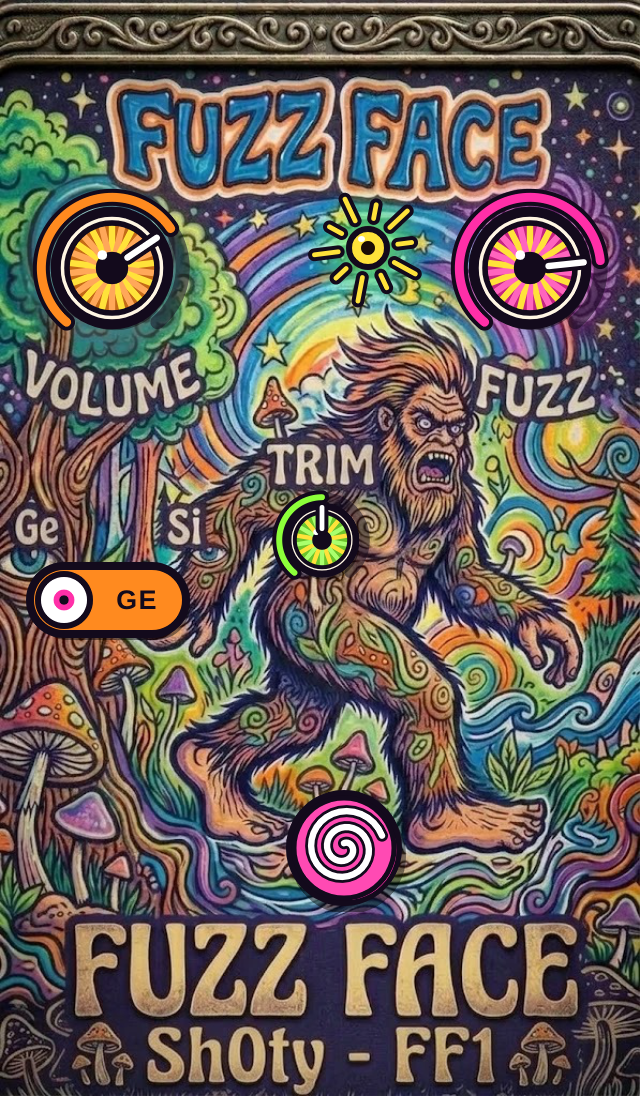
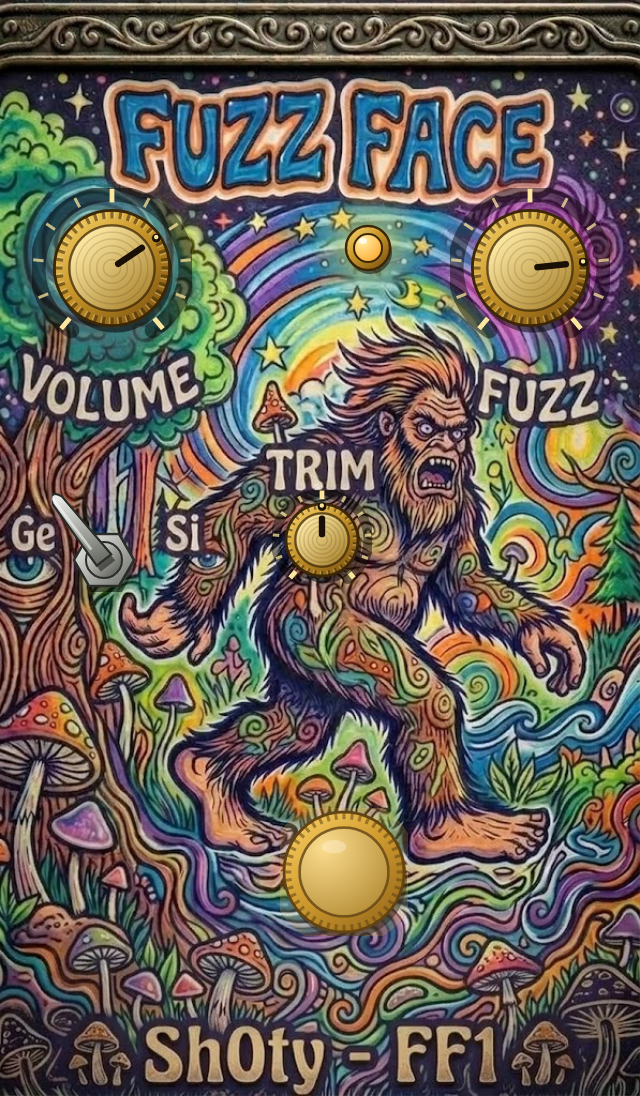
FF-1: brass dials, stomp and status jewel; nickel toggle lever for Ge/Si between the painted labels; updated poster art
Claude-Session: https://claude.ai/code/session_012hLuVF1MDrdb24tewskp13

diff --git a/Source/FfEditor.cpp b/Source/FfEditor.cpp
@@ -18,146 +18,136 @@ juce::Colour rainbow (int i)
     return c[(size_t) (((i % 7) + 7) % 7)];
 }
 
-juce::Font marker (float size, bool italic = true, float kern = 0.03f)
-{
-    juce::Font f (juce::FontOptions (size, italic ? (juce::Font::bold | juce::Font::italic) : juce::Font::bold));
-    f.setExtraKerningFactor (kern);
-    return f;
-}
-
-void stroke (juce::Graphics& g, const juce::Path& p, juce::Colour c, float w)
-{
-    g.setColour (ink); g.strokePath (p, juce::PathStrokeType (w + 4.f, juce::PathStrokeType::curved, juce::PathStrokeType::rounded));
-    g.setColour (c);   g.strokePath (p, juce::PathStrokeType (w, juce::PathStrokeType::curved, juce::PathStrokeType::rounded));
-}
-
-juce::Path spiral (juce::Point<float> c, float r, float turns)
-{
-    juce::Path p;
-    const int n = 70;
-    for (int i = 0; i <= n; ++i)
-    {
-        const float t = (float) i / (float) n, a = t * turns * juce::MathConstants<float>::twoPi, rr = r * (0.12f + 0.88f * t);
-        const auto pt = c.getPointOnCircumference (rr, a);
-        if (i == 0) p.startNewSubPath (pt); else p.lineTo (pt);
-    }
-    return p;
-}
-
-// smooth open curve through points (Catmull-Rom -> cubic Beziers)
-juce::Path smoothOpen (const std::vector<juce::Point<float>>& p)
-{
-    juce::Path path;
-    const int n = (int) p.size();
-    if (n < 3) return path;
-    auto at = [&] (int i) { return p[(size_t) juce::jlimit (0, n - 1, i)]; };
-    path.startNewSubPath (p[0]);
-    for (int i = 0; i < n - 1; ++i)
-    {
-        const auto p0 = at (i - 1), p1 = at (i), p2 = at (i + 1), p3 = at (i + 2);
-        path.cubicTo (p1 + (p2 - p0) / 6.f, p2 - (p3 - p1) / 6.f, p2);
-    }
-    return path;
-}
-
-// marker lettering: coloured fill, thick ink outline, optional offset shadow
-void lettering (juce::Graphics& g, const juce::String& text, juce::Point<float> at, float size, juce::Colour fill,
-                bool centred, juce::Colour shadow = juce::Colours::transparentBlack, bool italic = true)
-{
-    juce::GlyphArrangement ga;
-    ga.addLineOfText (marker (size, italic, 0.05f), text, 0.f, 0.f);
-    const auto bb = ga.getBoundingBox (0, -1, true);
-    ga.removeRangeOfGlyphs (0, -1);
-    ga.addLineOfText (marker (size, italic, 0.05f), text, centred ? at.x - bb.getWidth() * 0.5f : at.x, at.y);
-    juce::Path p; ga.createPath (p);
-    if (! shadow.isTransparent()) { g.setColour (shadow); g.fillPath (p, juce::AffineTransform::translation (3.5f, 3.5f)); }
-    g.setColour (ink); g.strokePath (p, juce::PathStrokeType (size * 0.2f, juce::PathStrokeType::curved, juce::PathStrokeType::rounded));
-    g.setColour (fill); g.fillPath (p);
-}
 } // namespace sas
 
 //==============================================================================
-// Knobs are eyeballs: white of the eye, a radial-striped iris (like the drawing's own eyes), a pupil, and a pointer.
+// Hardware is brass: knurled brass dials, a domed brass stomp button and a nickel toggle lever for Ge / Si.
+namespace brass
+{
+const juce::Colour hi { 0xfffbe6a0 }, light { 0xffe8bf55 }, mid { 0xffc8962a }, dark { 0xff7d5410 }, deep { 0xff3b2606 };
+
+juce::ColourGradient body (juce::Point<float> c, float r)     // lit from the upper left
+{
+    juce::ColourGradient gr (light, c.x - r * 0.55f, c.y - r * 0.7f, dark, c.x + r * 0.8f, c.y + r * 0.9f, false);
+    gr.addColour (0.35, mid);
+    return gr;
+}
+} // namespace brass
+
 void MarkerLookAndFeel::drawRotarySlider (juce::Graphics& g, int x, int y, int w, int h, float pos,
                                           float startAngle, float endAngle, juce::Slider& s)
 {
-    using namespace sas;
-    const auto b = juce::Rectangle<float> ((float) x, (float) y, (float) w, (float) h).reduced (2.f);
+    using namespace brass;
+    const auto b = juce::Rectangle<float> ((float) x, (float) y, (float) w, (float) h);
     const float r = juce::jmin (b.getWidth(), b.getHeight()) * 0.5f;
     const auto c = b.getCentre();
     const float ang = startAngle + pos * (endAngle - startAngle);
     const bool small = s.getProperties().getWithDefault ("small", false);
-    const juce::Colour accent ((juce::uint32) (int) s.getProperties().getWithDefault ("accent", (int) orange.getARGB()));
 
-    // value arc: fat marker line around the eye
-    const float ar = r * 0.93f;
-    juce::Path track, value;
-    track.addCentredArc (c.x, c.y, ar, ar, 0.f, startAngle, endAngle, true);
-    value.addCentredArc (c.x, c.y, ar, ar, 0.f, startAngle, ang, true);
-    g.setColour (ink.withAlpha (0.5f)); g.strokePath (track, juce::PathStrokeType (small ? 5.f : 7.f, juce::PathStrokeType::curved, juce::PathStrokeType::rounded));
-    if (pos > 0.002f) stroke (g, value, accent, small ? 3.f : 4.5f);
-
-    // eyeball
-    const float kr = r * 0.74f;
-    g.setColour (juce::Colours::black.withAlpha (0.4f)); g.fillEllipse (c.x - kr + 1.5f, c.y - kr + 3.f, kr * 2, kr * 2);
-    g.setColour (juce::Colour (0xfffff6e4)); g.fillEllipse (c.x - kr, c.y - kr, kr * 2, kr * 2);
-    const float ir = kr * 0.8f;
-    g.setColour (accent.darker (0.3f)); g.fillEllipse (c.x - ir, c.y - ir, ir * 2, ir * 2);
-    const int spokes = small ? 18 : 26;
-    for (int i = 0; i < spokes; ++i)         // radial iris strokes, alternating colours
+    // scale ticks on a dark backing so they read over the artwork
+    g.setColour (juce::Colours::black.withAlpha (0.45f));
+    juce::Path ring; ring.addCentredArc (c.x, c.y, r * 0.93f, r * 0.93f, 0.f, startAngle - 0.12f, endAngle + 0.12f, true);
+    g.strokePath (ring, juce::PathStrokeType (r * 0.2f, juce::PathStrokeType::curved, juce::PathStrokeType::rounded));
+    for (int i = 0; i <= 10; ++i)
     {
-        const float a = juce::MathConstants<float>::twoPi * (float) i / (float) spokes;
-        g.setColour (i % 2 ? accent.brighter (0.35f) : yellow);
-        g.drawLine ({ c.getPointOnCircumference (ir * 0.34f, a), c.getPointOnCircumference (ir * 0.96f, a) }, small ? 2.2f : 3.2f);
+        const float a = startAngle + (float) i / 10.f * (endAngle - startAngle);
+        const bool major = i % 5 == 0;
+        g.setColour (hi.withAlpha (major ? 1.f : 0.75f));
+        g.drawLine ({ c.getPointOnCircumference (r * (major ? 0.82f : 0.86f), a), c.getPointOnCircumference (r * 0.99f, a) }, major ? 2.4f : 1.5f);
     }
-    g.setColour (ink); g.drawEllipse (c.x - ir, c.y - ir, ir * 2, ir * 2, small ? 2.f : 2.8f);
-    const float pr = ir * 0.36f;
-    g.setColour (ink); g.fillEllipse (c.x - pr, c.y - pr, pr * 2, pr * 2);
-    g.setColour (juce::Colours::white); g.fillEllipse (c.x - pr * 0.9f, c.y - pr * 1.1f, pr * 0.6f, pr * 0.6f);
-    g.setColour (ink); g.drawEllipse (c.x - kr, c.y - kr, kr * 2, kr * 2, small ? 3.5f : 5.f);
-    // pointer: a thick marker line from the pupil out across the iris
-    juce::Path ptr; ptr.startNewSubPath (c.getPointOnCircumference (pr * 1.15f, ang)); ptr.lineTo (c.getPointOnCircumference (kr * 0.96f, ang));
-    stroke (g, ptr, juce::Colours::white, small ? 2.4f : 3.2f);
+
+    const float kr = r * 0.72f;
+    g.setColour (juce::Colours::black.withAlpha (0.5f)); g.fillEllipse (c.x - kr + 1.5f, c.y - kr + 3.5f, kr * 2, kr * 2);
+    // knurled skirt
+    g.setGradientFill (body (c, kr)); g.fillEllipse (c.x - kr, c.y - kr, kr * 2, kr * 2);
+    const int ridges = small ? 30 : 40;
+    for (int i = 0; i < ridges; ++i)
+    {
+        const float a = juce::MathConstants<float>::twoPi * (float) i / (float) ridges;
+        g.setColour (deep.withAlpha (0.55f));
+        g.drawLine ({ c.getPointOnCircumference (kr * 0.86f, a), c.getPointOnCircumference (kr * 0.995f, a) }, small ? 1.2f : 1.6f);
+        g.setColour (hi.withAlpha (0.35f));
+        g.drawLine ({ c.getPointOnCircumference (kr * 0.86f, a + 0.045f), c.getPointOnCircumference (kr * 0.995f, a + 0.045f) }, 0.8f);
+    }
+    g.setColour (deep); g.drawEllipse (c.x - kr, c.y - kr, kr * 2, kr * 2, 1.4f);
+    // polished cap with fine concentric turning marks
+    const float cr = kr * 0.74f;
+    g.setGradientFill (juce::ColourGradient (hi, c.x - cr * 0.6f, c.y - cr * 0.7f, mid.darker (0.25f), c.x + cr, c.y + cr, false));
+    g.fillEllipse (c.x - cr, c.y - cr, cr * 2, cr * 2);
+    g.setColour (deep.withAlpha (0.16f));
+    for (float t = 0.2f; t < 1.f; t += 0.16f) g.drawEllipse (c.x - cr * t, c.y - cr * t, cr * t * 2, cr * t * 2, 0.7f);
+    g.setColour (deep.withAlpha (0.7f)); g.drawEllipse (c.x - cr, c.y - cr, cr * 2, cr * 2, 1.2f);
+    // engraved pointer line, filled with black enamel, and a lit dot on the skirt
+    juce::Path ptr; ptr.addRoundedRectangle (-1.6f, -cr * 0.92f, 3.2f, cr * 0.82f, 1.4f);
+    g.setColour (juce::Colour (0xff1a1006)); g.fillPath (ptr, juce::AffineTransform::rotation (ang).translated (c.x, c.y));
+    const auto tip = c.getPointOnCircumference (kr * 0.93f, ang);
+    g.setColour (juce::Colour (0xff1a1006)); g.fillEllipse (tip.x - 2.2f, tip.y - 2.2f, 4.4f, 4.4f);
+    g.setColour (hi); g.fillEllipse (tip.x - 1.2f, tip.y - 1.6f, 2.2f, 2.2f);
 }
 
-// footswitch: a hypnotic spiral, bright when on
+// footswitch: a domed brass button with a knurled collar; a warm glow when the pedal is on
 void MarkerLookAndFeel::drawButtonBackground (juce::Graphics& g, juce::Button& b, const juce::Colour&, bool over, bool)
 {
-    using namespace sas;
-    const auto r = b.getLocalBounds().toFloat().reduced (3.f);
+    using namespace brass;
+    const auto r = b.getLocalBounds().toFloat().reduced (2.f);
     const float d = juce::jmin (r.getWidth(), r.getHeight());
     const auto rc = r.withSizeKeepingCentre (d, d);
+    const auto c = rc.getCentre(); const float R = d * 0.5f;
     const bool on = b.getToggleState();
-    g.setColour (juce::Colours::black.withAlpha (0.45f)); g.fillEllipse (rc.translated (2.f, 4.f));
-    g.setColour (ink); g.fillEllipse (rc);
-    const auto face = rc.reduced (4.f);
-    g.setColour (on ? magenta : juce::Colour (0xff5a2f86)); g.fillEllipse (face.translated (1.2f, 1.f));
-    g.setColour (on ? magenta.brighter (0.15f) : juce::Colour (0xff6a3a98)); g.fillEllipse (face);
-    g.setColour (over ? yellow : ink); g.drawEllipse (face, over ? 3.f : 2.5f);
-    const auto sp = spiral (face.getCentre(), face.getWidth() * 0.4f, 2.2f);
-    g.setColour (ink); g.strokePath (sp, juce::PathStrokeType (on ? 6.f : 5.f, juce::PathStrokeType::curved, juce::PathStrokeType::rounded));
-    g.setColour (on ? juce::Colours::white : juce::Colour (0xff9a6ac8)); g.strokePath (sp, juce::PathStrokeType (on ? 3.2f : 2.4f, juce::PathStrokeType::curved, juce::PathStrokeType::rounded));
+    const bool down = b.isDown();
+    g.setColour (juce::Colours::black.withAlpha (0.5f)); g.fillEllipse (rc.translated (1.5f, 3.5f));
+    g.setGradientFill (body (c, R)); g.fillEllipse (rc);                                  // collar
+    for (int i = 0; i < 44; ++i)
+    {
+        const float a = juce::MathConstants<float>::twoPi * (float) i / 44.f;
+        g.setColour (deep.withAlpha (0.55f)); g.drawLine ({ c.getPointOnCircumference (R * 0.88f, a), c.getPointOnCircumference (R * 0.995f, a) }, 1.5f);
+    }
+    g.setColour (deep); g.drawEllipse (rc, 1.4f);
+    const float dr = R * 0.74f * (down ? 0.97f : 1.f);                                    // dome
+    g.setGradientFill (juce::ColourGradient (hi, c.x - dr * 0.45f, c.y - dr * 0.55f, mid.darker (0.35f), c.x + dr, c.y + dr, true));
+    g.fillEllipse (c.x - dr, c.y - dr, dr * 2, dr * 2);
+    g.setColour (deep.withAlpha (0.8f)); g.drawEllipse (c.x - dr, c.y - dr, dr * 2, dr * 2, 1.3f);
+    g.setColour (juce::Colours::white.withAlpha (over ? 0.55f : 0.4f)); g.fillEllipse (c.x - dr * 0.5f, c.y - dr * 0.72f, dr * 0.55f, dr * 0.3f);   // highlight
+    if (on) { g.setColour (juce::Colour (0xffffc04a).withAlpha (0.2f)); g.fillEllipse (c.x - R * 1.25f, c.y - R * 1.25f, R * 2.5f, R * 2.5f); }
 }
 
-// the Ge / Si switch, sitting in his mouth: a chunky pill with an eyeball thumb
+// the Ge / Si switch: a nickel toggle lever, thrown left for germanium and right for silicon
 void MarkerLookAndFeel::drawToggleButton (juce::Graphics& g, juce::ToggleButton& b, bool over, bool)
 {
-    using namespace sas;
-    const auto r = b.getLocalBounds().toFloat().reduced (3.f);
+    const auto r = b.getLocalBounds().toFloat();
     const bool si = b.getToggleState();
-    g.setColour (juce::Colours::black.withAlpha (0.45f)); g.fillRoundedRectangle (r.translated (2.f, 3.f), r.getHeight() * 0.5f);
-    g.setColour (si ? cyan.darker (0.35f) : orange.darker (0.25f)); g.fillRoundedRectangle (r.translated (1.2f, 1.f), r.getHeight() * 0.5f);
-    g.setColour (si ? cyan : orange); g.fillRoundedRectangle (r, r.getHeight() * 0.5f);
-    g.setColour (over ? yellow : ink); g.drawRoundedRectangle (r, r.getHeight() * 0.5f, over ? 4.5f : 4.f);
-    g.setColour (ink); g.setFont (marker (15.f, false, 0.05f));
-    if (si) g.drawText ("SI", r.withTrimmedRight (r.getWidth() * 0.45f).translated (3.f, 0.f), juce::Justification::centred);   // the mode's name sits on the side the thumb left free
-    else    g.drawText ("GE", r.withTrimmedLeft (r.getWidth() * 0.45f).translated (-3.f, 0.f), juce::Justification::centred);
-    const float td = r.getHeight() - 8.f;
-    const auto thumb = juce::Rectangle<float> (si ? r.getRight() - td - 4.f : r.getX() + 4.f, r.getY() + 4.f, td, td);
-    g.setColour (juce::Colours::white); g.fillEllipse (thumb);
-    g.setColour (ink); g.drawEllipse (thumb, 3.f);
-    g.setColour (si ? blue : magenta); g.fillEllipse (thumb.getCentreX() - td * 0.2f, thumb.getCentreY() - td * 0.2f, td * 0.4f, td * 0.4f);
-    g.setColour (ink); g.fillEllipse (thumb.getCentreX() - td * 0.09f, thumb.getCentreY() - td * 0.09f, td * 0.18f, td * 0.18f);
+    const juce::Point<float> pivot (r.getCentreX(), r.getBottom() - 16.f);
+
+    // hex nut and bushing
+    juce::Path nut;
+    for (int i = 0; i < 6; ++i)
+    {
+        const auto p = pivot.getPointOnCircumference (15.f, juce::MathConstants<float>::pi / 6.f + (float) i * juce::MathConstants<float>::pi / 3.f);
+        if (i == 0) nut.startNewSubPath (p); else nut.lineTo (p);
+    }
+    nut.closeSubPath();
+    g.setColour (juce::Colours::black.withAlpha (0.5f)); g.fillPath (nut, juce::AffineTransform::translation (1.5f, 3.f));
+    g.setGradientFill (juce::ColourGradient (juce::Colour (0xfff2f2ee), pivot.x - 14.f, pivot.y - 14.f, juce::Colour (0xff6b6e68), pivot.x + 14.f, pivot.y + 14.f, false));
+    g.fillPath (nut);
+    g.setColour (juce::Colour (0xff2a2c28)); g.strokePath (nut, juce::PathStrokeType (1.2f));
+    g.setGradientFill (juce::ColourGradient (juce::Colour (0xffe8e8e2), pivot.x - 8.f, pivot.y - 8.f, juce::Colour (0xff53564f), pivot.x + 8.f, pivot.y + 8.f, false));
+    g.fillEllipse (pivot.x - 9.f, pivot.y - 9.f, 18.f, 18.f);
+    g.setColour (juce::Colour (0xff2a2c28)); g.drawEllipse (pivot.x - 9.f, pivot.y - 9.f, 18.f, 18.f, 1.f);
+
+    // the bat: a tapered lever with a rounded tip, thrown to one side
+    const float ang = juce::degreesToRadians (si ? 38.f : -38.f), len = r.getHeight() - 22.f;
+    juce::Path bat;
+    bat.startNewSubPath (-4.6f, 0.f); bat.lineTo (-3.0f, -len + 4.f);
+    bat.quadraticTo (0.f, -len - 3.f, 3.0f, -len + 4.f); bat.lineTo (4.6f, 0.f); bat.closeSubPath();
+    const auto xf = juce::AffineTransform::rotation (ang).translated (pivot.x, pivot.y);
+    g.setColour (juce::Colours::black.withAlpha (0.45f)); g.fillPath (bat, xf.translated (2.f, 3.f));
+    const auto tip = pivot + juce::Point<float> (std::sin (ang), -std::cos (ang)) * len;
+    g.setGradientFill (juce::ColourGradient (juce::Colour (0xfffafaf6), pivot.x - 6.f, pivot.y - len, juce::Colour (0xff60645c), pivot.x + 8.f, pivot.y, false));
+    g.fillPath (bat, xf);
+    g.setColour (juce::Colour (0xff2a2c28)); g.strokePath (bat, juce::PathStrokeType (1.1f), xf);
+    g.setColour (juce::Colours::white.withAlpha (over ? 0.8f : 0.55f));
+    g.drawLine (juce::Line<float> (pivot + juce::Point<float> (std::sin (ang), -std::cos (ang)) * 8.f - juce::Point<float> (std::cos (ang), std::sin (ang)) * 1.8f,
+                                   tip - juce::Point<float> (std::cos (ang), std::sin (ang)) * 1.4f), 1.4f);
 }
 
 namespace
@@ -218,9 +208,9 @@ void Sh0tyFF1Editor::resized()
     // chest, Ge / Si above the switch on the tree, the stomp button between his feet
     volume.slider.setBounds ({ kVolume.x - 40, kVolume.y - 40, 80, 80 });
     fuzz.slider.setBounds   ({ kFuzz.x - 40, kFuzz.y - 40, 80, 80 });
-    silicon.setBounds       ({ 12, 280, 84, 40 });
+    silicon.setBounds       ({ 52 - 26, 268 - 36, 52, 64 });   // between the painted Ge and Si labels
     trim.slider.setBounds   ({ 161 - 25, 270 - 25, 50, 50 });
-    footswitch.setBounds    ({ 172 - 32, 424 - 32, 64, 64 });
+    footswitch.setBounds    ({ 172 - 32, 436 - 32, 64, 64 });
 }
 
 //------------------------------------------------------------------------------ paint
@@ -239,22 +229,20 @@ void Sh0tyFF1Editor::paint (juce::Graphics& g)
         g.fillEllipse (eye.first.x - r, eye.first.y - r, r * 2, r * 2);
     }
 
-    // status light: a painted star in the rainbow, lit when the pedal is on
+    // status light: a brass bezel with a jewel, lit when the pedal is on
     const bool lit = footswitch.getToggleState();
     const juce::Point<float> eye (kLight.toFloat());
     if (lit)
     {
-        g.setGradientFill (juce::ColourGradient (lime.withAlpha (0.8f), eye.x, eye.y, lime.withAlpha (0.f), eye.x + 30.f, eye.y, true));
+        g.setGradientFill (juce::ColourGradient (juce::Colour (0xffffd24a).withAlpha (0.75f), eye.x, eye.y, juce::Colour (0xffffd24a).withAlpha (0.f), eye.x + 30.f, eye.y, true));
         g.fillEllipse (eye.x - 30.f, eye.y - 30.f, 60.f, 60.f);
-        for (int i = 0; i < 10; ++i)       // little rays
-        {
-            const float a = juce::MathConstants<float>::twoPi * (float) i / 10.f + phase * 0.2f;
-            juce::Path ray; ray.startNewSubPath (eye.getPointOnCircumference (15.f, a)); ray.lineTo (eye.getPointOnCircumference (22.f + (i % 2) * 5.f, a));
-            stroke (g, ray, yellow, 2.4f);
-        }
     }
-    g.setColour (ink); g.fillEllipse (eye.x - 11.f, eye.y - 11.f, 22.f, 22.f);
-    g.setColour (lit ? yellow : juce::Colour (0xff4a2a6a)); g.fillEllipse (eye.x - 8.f, eye.y - 8.f, 16.f, 16.f);
-    g.setColour (lit ? juce::Colour (0xff1a0c05) : juce::Colour (0xff22123a)); g.fillEllipse (eye.x - 3.5f, eye.y - 3.5f, 7.f, 7.f);
-    if (lit) { g.setColour (juce::Colours::white); g.fillEllipse (eye.x - 5.f, eye.y - 6.f, 3.5f, 3.f); }
+    g.setColour (juce::Colours::black.withAlpha (0.5f)); g.fillEllipse (eye.x - 11.f + 1.f, eye.y - 11.f + 2.f, 22.f, 22.f);
+    g.setGradientFill (brass::body (eye, 11.f)); g.fillEllipse (eye.x - 11.f, eye.y - 11.f, 22.f, 22.f);
+    g.setColour (brass::deep); g.drawEllipse (eye.x - 11.f, eye.y - 11.f, 22.f, 22.f, 1.2f);
+    g.setGradientFill (juce::ColourGradient (lit ? juce::Colour (0xfffff2a8) : juce::Colour (0xff6a3a14), eye.x - 3.f, eye.y - 4.f,
+                                             lit ? juce::Colour (0xffff9a1a) : juce::Colour (0xff2a1408), eye.x + 7.f, eye.y + 7.f, true));
+    g.fillEllipse (eye.x - 7.f, eye.y - 7.f, 14.f, 14.f);
+    g.setColour (brass::deep); g.drawEllipse (eye.x - 7.f, eye.y - 7.f, 14.f, 14.f, 1.f);
+    g.setColour (juce::Colours::white.withAlpha (lit ? 0.8f : 0.3f)); g.fillEllipse (eye.x - 4.5f, eye.y - 5.f, 4.f, 3.f);
 }

diff --git a/README.md b/README.md
@@ -59,10 +59,11 @@ also uses a bias trimmer value); germanium biases to the textbook -0.65 V / -4.9
 **Volume**, **Fuzz**, **Ge / Si**, footswitch and a small input **Trim** (it is a level-sensitive circuit, so trim
 matters). Simplifications: ideal battery (no sag), the guitar is a plain 6k8 source resistor (no pickup inductance),
 a gentle roll-off stands in for transistor bandwidth, no temperature drift. It runs at 2x oversampling because the
-solve is the expensive part. The artwork is a supplied psychedelic Sasquatch poster (`Assets/fuzzface.jpg`) with the controls placed on the lettering
-painted into it: eyeball dials for VOLUME and FUZZ over the two swirl orbs, TRIM on his chest, the Ge / Si switch on the
-tree, the stomp button between his feet and a star in the rainbow as the status light. The artwork is the user's own
-supplied image; its rights are theirs to sort out before the plugin is shared.
+solve is the expensive part. The artwork is a supplied psychedelic Sasquatch poster (`Assets/fuzzface.jpg`) with the hardware placed on the lettering
+painted into it: knurled brass dials for VOLUME and FUZZ over the two swirl orbs, a small brass TRIM on his chest, a nickel
+toggle lever between the Ge and Si labels (thrown left for germanium, right for silicon), a domed brass stomp button between
+his feet and a brass-bezel jewel as the status light. The artwork is the user's own supplied image; its rights are theirs
+to sort out before the plugin is shared.
 
 ## RE-201 Space Echo
 ![RE-201](docs/re201-ui.png)
